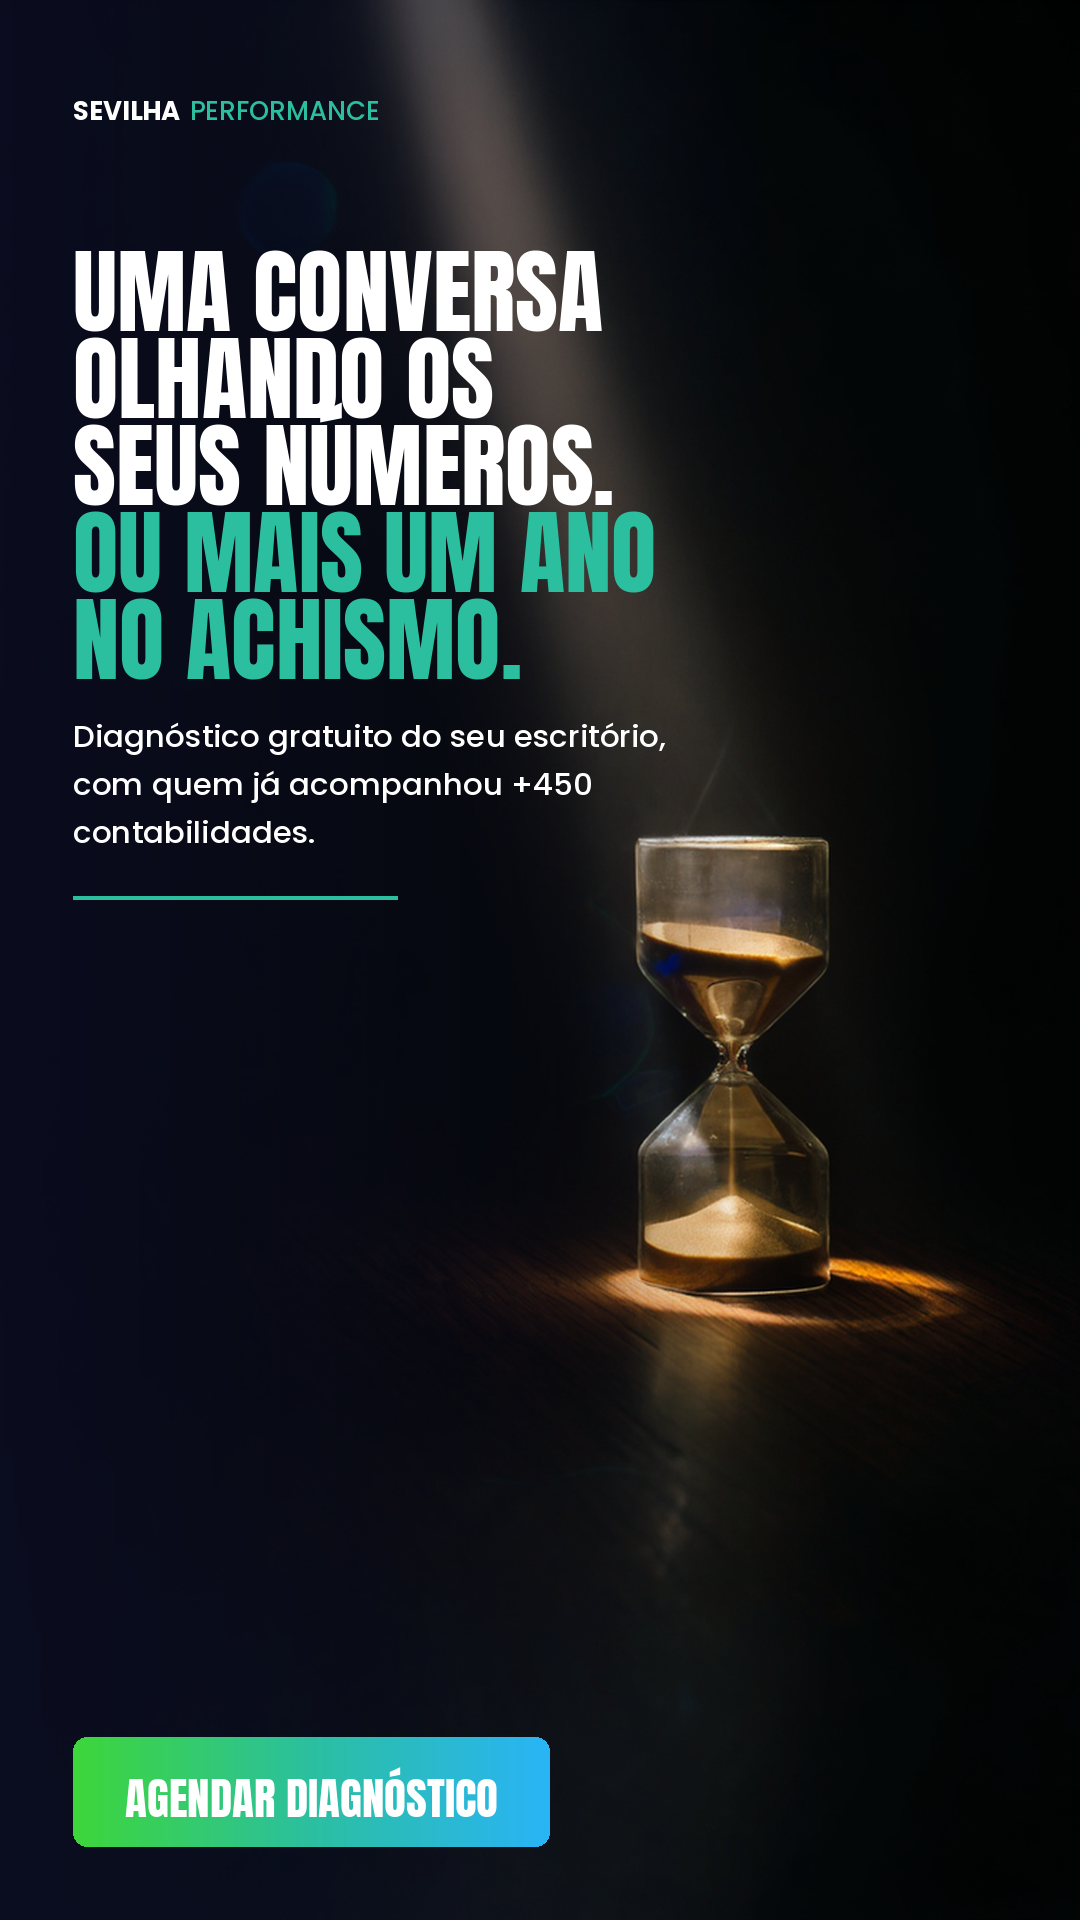
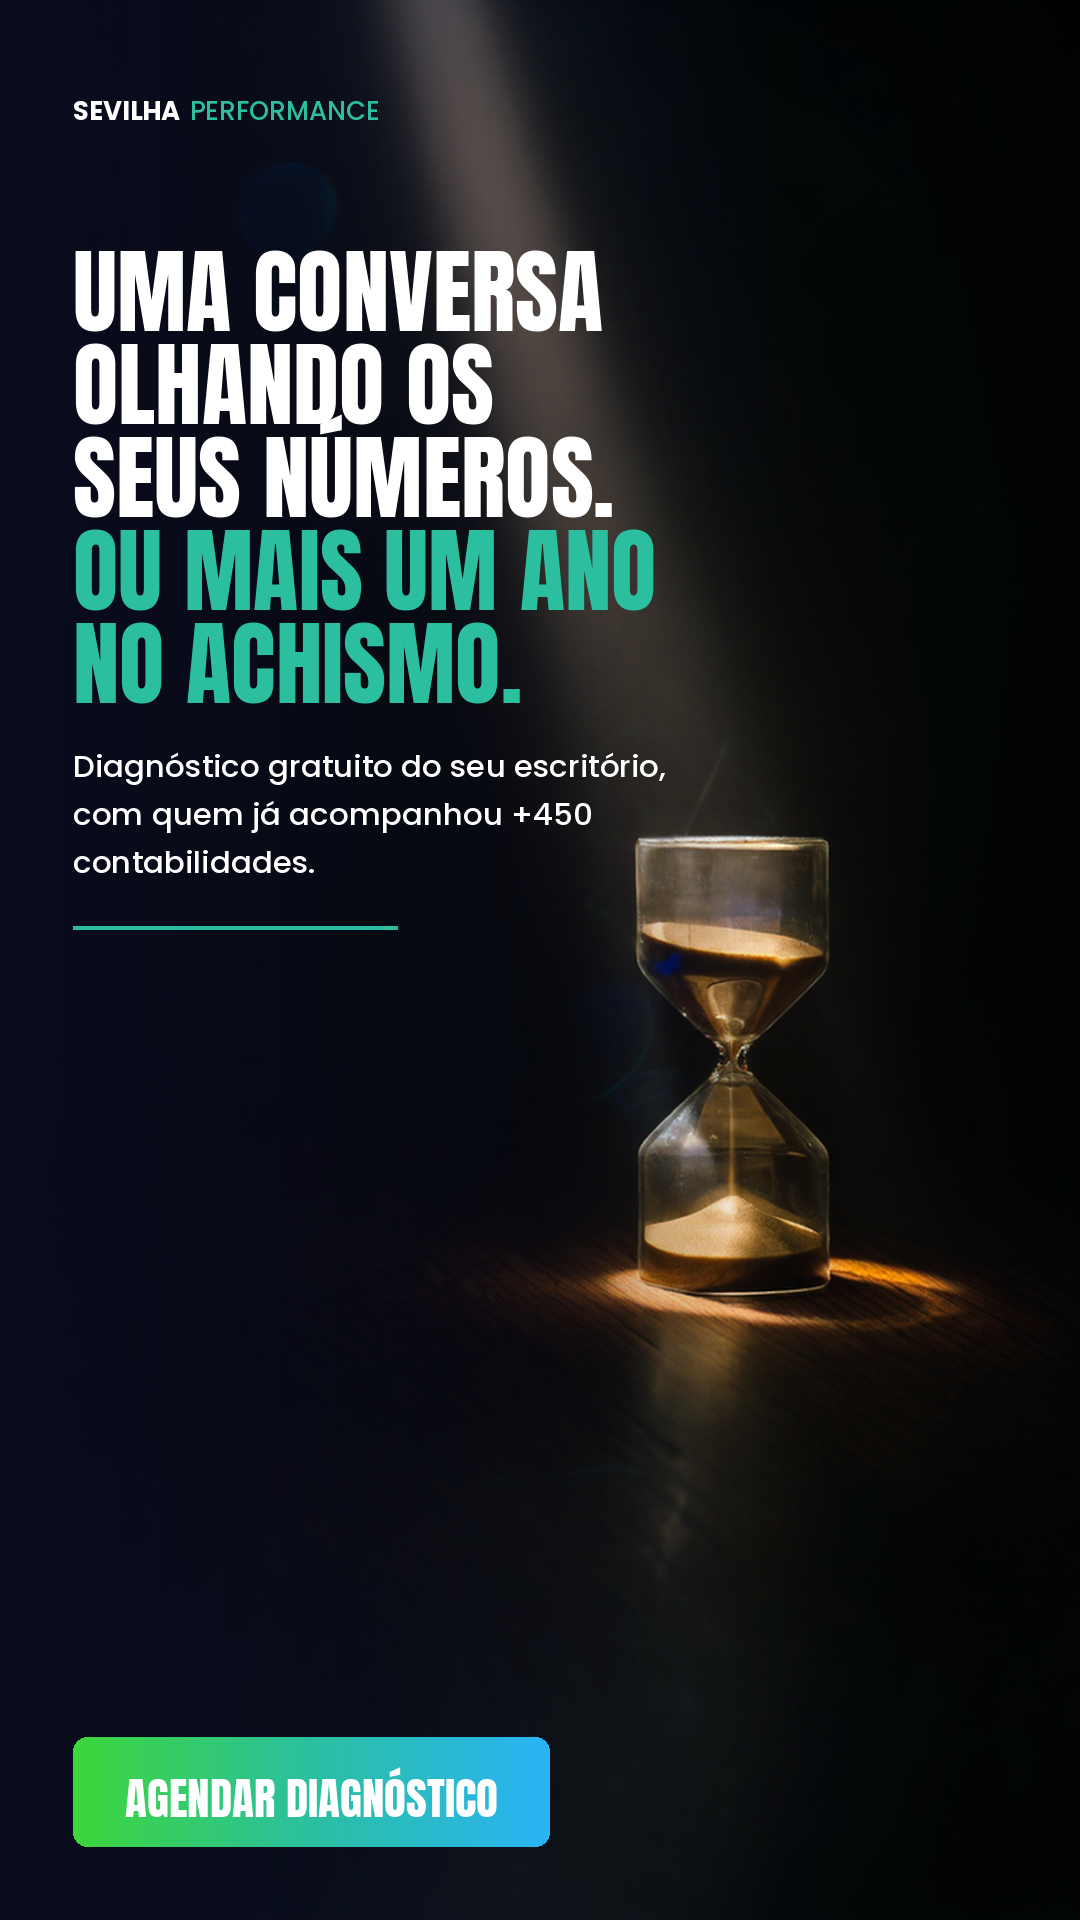
Adicionar três anúncios da Sessão Estratégica
Conceitos 4, 5 e 6 em 4:5, mesmo pipeline: plate limpo pelo Kling e
tipografia composta por cima.

- Conceito 4 (pilha de papel): traduz em objeto o ângulo de menor CPL da
  conta, sem depender de foto de ninguém
- Conceito 5 (cadeira vazia): "o que para quando você sai"
- Conceito 6 (funil): margem que vaza. A primeira versão comparava duas
  pilhas e não lia — o modelo devolvia alturas parecidas; o funil resolve
  porque a desproporção é do próprio objeto

Ajustes no compor.py que os três exigiram:
- entrelinha da headline vira parâmetro, com padrão 1.0. As referências são
  em inglês e usam 0.85; em PT-BR os acentos maiúsculos batiam na linha
  de cima
- suporte a --logo para o PNG oficial da marca, com a assinatura em texto
  como fallback

Claude-Session: https://claude.ai/code/session_01RyMhWZjS6JzrucoHXrbyNV

Changed region(s): [[0.0611, 0.1562, 0.6111, 0.4688], [0.0611, 0.1562, 0.0917, 0.1875]]

diff --git a/criativos/sessao-estrategica/compor.py b/criativos/sessao-estrategica/compor.py
@@ -38,6 +38,24 @@ PECAS = {
         "subhead": "Diagnóstico gratuito do seu escritório, com quem já acompanhou +450 contabilidades.",
         "cta": "AGENDAR DIAGNÓSTICO",
     },
+    "conceito-4": {
+        "headline": ["VOCÊ NÃO TEM", "UM ESCRITÓRIO.", "VOCÊ TEM", "UM PLANTÃO."],
+        "accent_lines": [2, 3],
+        "subhead": "Diagnóstico gratuito do seu escritório, com quem já acompanhou +450 contabilidades.",
+        "cta": "AGENDAR DIAGNÓSTICO",
+    },
+    "conceito-5": {
+        "headline": ["TIRE UMA SEMANA", "DE FÉRIAS.", "VEJA O QUE", "PARA."],
+        "accent_lines": [2, 3],
+        "subhead": "Diagnóstico gratuito do seu escritório, com quem já acompanhou +450 contabilidades.",
+        "cta": "AGENDAR DIAGNÓSTICO",
+    },
+    "conceito-6": {
+        "headline": ["O FATURAMENTO", "SUBIU.", "A MARGEM NÃO", "SAIU DO LUGAR."],
+        "accent_lines": [2, 3],
+        "subhead": "Diagnóstico gratuito do seu escritório, com quem já acompanhou +450 contabilidades.",
+        "cta": "AGENDAR DIAGNÓSTICO",
+    },
 }
 
 
@@ -124,9 +142,18 @@ def botao(texto, fonte, padding=(52, 30), raio=14):
     return grad
 
 
-def marca(draw, x, y, fontes):
-    """Assinatura da marca em texto — o logo.png é navy sobre branco e não
+def marca(canvas, draw, x, y, fontes, logo=None, altura=None):
+    """Aplica o logo. Com --logo aponta para o PNG oficial (marca em gradiente +
+    wordmark branco, que já nasce pronto para fundo escuro). Sem ele, cai numa
+    assinatura em texto — o logo.png do repositório é navy sobre branco e não
     sobrevive ao fundo escuro sem retrabalho de vetor."""
+    if logo:
+        marca_img = Image.open(logo).convert("RGBA")
+        escala = altura / marca_img.height
+        marca_img = marca_img.resize(
+            (round(marca_img.width * escala), altura), Image.LANCZOS)
+        canvas.paste(marca_img, (x, y), marca_img)
+        return
     f = ImageFont.truetype(fontes["poppins_bold"], 26)
     draw.text((x, y), "SEVILHA", font=f, fill=INK)
     largura = f.getbbox("SEVILHA")[2]
@@ -135,7 +162,7 @@ def marca(draw, x, y, fontes):
 
 
 def compor(plate_path, peca, formato, dir_fontes, out, zoom=1.0, anchor_x=0.5,
-           coluna_frac=0.56, headline_y=0.215, cta_y=None):
+           coluna_frac=0.56, headline_y=0.215, cta_y=None, logo=None, leading=1.0):
     size = FORMATOS[formato]
     W, H = size
     margem = round(W * 0.068)
@@ -154,12 +181,15 @@ def compor(plate_path, peca, formato, dir_fontes, out, zoom=1.0, anchor_x=0.5,
     canvas.paste(scrim(size), (0, 0), scrim(size))
     draw = ImageDraw.Draw(canvas)
 
-    marca(draw, margem, round(H * 0.048), fontes)
+    marca(canvas, draw, margem, round(H * 0.048), fontes, logo, round(H * 0.040))
 
     # headline — Anton uppercase, leading apertado, uma frase-chave em ACCENT
     linhas = peca["headline"]
     f_head, corpo = autofit(linhas, fontes["anton"], coluna, round(H * 0.082))
-    avanco = round(corpo * 0.94)
+    # As referências usam leading ~0.85, mas elas são em inglês. Em PT-BR os
+    # acentos maiúsculos (Ê, Ã, Ó) sobem acima da caixa e batem na linha de
+    # cima — 1.0 é o mais apertado que ainda respira.
+    avanco = round(corpo * leading)
     y = round(H * headline_y)
     for i, linha in enumerate(linhas):
         cor = ACCENT if i in peca["accent_lines"] else INK
@@ -202,6 +232,8 @@ if __name__ == "__main__":
     p.add_argument("--coluna", type=float, default=0.56, help="largura da coluna de texto (fração)")
     p.add_argument("--headline-y", type=float, default=0.215, help="topo da headline (fração da altura)")
     p.add_argument("--cta-y", type=float, default=None, help="topo do CTA; padrão ancora na base")
+    p.add_argument("--logo", default=None, help="PNG do logo oficial; sem ele usa assinatura em texto")
+    p.add_argument("--leading", type=float, default=1.0, help="entrelinha da headline (múltiplo do corpo)")
     a = p.parse_args()
     compor(a.plate, PECAS[a.peca], a.formato, a.fontes, a.out, a.zoom, a.anchor_x,
-           a.coluna, a.headline_y, a.cta_y)
+           a.coluna, a.headline_y, a.cta_y, a.logo, a.leading)

diff --git a/criativos/sessao-estrategica/PROMPT-KLING.md b/criativos/sessao-estrategica/PROMPT-KLING.md
@@ -7,7 +7,7 @@ referências enviadas, com a paleta da marca.
 - **Oferta:** sessão de diagnóstico **gratuita**
 - **Destino:** https://form.respondi.app/gvz4UKQr
 - **Formato:** 4:5 (feed) + 9:16 (Reels/Stories)
-- **Peças prontas:** `out/conceito-2-4x5.png` · `out/conceito-2-9x16.png`
+- **Peças prontas:** conceitos 2, 4, 5 e 6 em `out/` (4:5; o conceito 2 também em 9:16)
 
 ## Lacunas a preencher antes de gerar
 
@@ -213,6 +213,74 @@ change, no morphing, no added text.
 
 ---
 
+## Conceito 4 — Pilha de papel · "plantão"
+
+O ângulo de menor CPL da conta (`005 – Está consumido pela operação`), traduzido em
+objeto. Sem pessoa, então não depende de foto de ninguém.
+
+**Headline:**
+```
+VOCÊ NÃO TEM
+UM ESCRITÓRIO.
+VOCÊ TEM
+UM PLANTÃO.       ← estas duas linhas em ACCENT
+```
+
+Plate em `prompts/plates/conceito-4-pilha.txt` · peça em `out/conceito-4-4x5.png`
+
+```bash
+python3 compor.py --plate plates/conceito-4-pilha-3x4.png --peca conceito-4 \
+  --formato 4:5 --coluna 0.58 --out out/conceito-4-4x5.png
+```
+
+---
+
+## Conceito 5 — Cadeira vazia · "o que para sem você"
+
+Ancorado em `Quando você tira um dia de folga, algo quebra ou para` (landing page).
+
+**Headline:**
+```
+TIRE UMA SEMANA
+DE FÉRIAS.
+VEJA O QUE
+PARA.             ← estas duas linhas em ACCENT
+```
+
+Plate em `prompts/plates/conceito-5-cadeira.txt` · peça em `out/conceito-5-4x5.png`
+
+```bash
+python3 compor.py --plate plates/conceito-5-cadeira-3x4.png --peca conceito-5 \
+  --formato 4:5 --zoom 1.1 --anchor-x 0.0 --coluna 0.54 --out out/conceito-5-4x5.png
+```
+
+---
+
+## Conceito 6 — Funil · margem que vaza
+
+Ancorado em `O faturamento cresce, mas a margem não acompanha` (landing page).
+
+A primeira tentativa foi "pilha alta de notas ao lado de pilha baixa de moedas" — não
+funcionou: o modelo devolveu pilhas de altura parecida e o contraste não lia. O funil
+transbordando que pinga uma moeda só resolve, porque a desproporção é do próprio objeto.
+
+**Headline:**
+```
+O FATURAMENTO
+SUBIU.
+A MARGEM NÃO
+SAIU DO LUGAR.    ← estas duas linhas em ACCENT
+```
+
+Plate em `prompts/plates/conceito-6-margem.txt` · peça em `out/conceito-6-4x5.png`
+
+```bash
+python3 compor.py --plate plates/conceito-6-margem-3x4.png --peca conceito-6 \
+  --formato 4:5 --zoom 1.15 --anchor-x 0.0 --coluna 0.58 --out out/conceito-6-4x5.png
+```
+
+---
+
 ## Prompt negativo (todos os conceitos)
 
 ```
@@ -285,6 +353,21 @@ Limites: texto principal 125 caracteres visíveis · título 40 · descrição 3
 - Título: `+450 contabilidades atendidas` (29)
 - Descrição: `Diagnóstico gratuito` (20)
 
+**Conceito 4**
+- Principal: `Você chega cedo, sai tarde e ainda leva trabalho pra casa. Isso não é dedicação, é falta de gestão.` (99)
+- Título: `Diagnóstico gratuito` (20)
+- Descrição: `Donos de contabilidade` (22)
+
+**Conceito 5**
+- Principal: `Tire um dia de folga e algo quebra. Um escritório que depende de você não é um ativo, é um emprego.` (99)
+- Título: `O que para sem você?` (20)
+- Descrição: `Agende seu diagnóstico` (22)
+
+**Conceito 6**
+- Principal: `Faturamento subindo com margem parada é vazamento, não preço. Descubra onde está o seu.` (87)
+- Título: `Margem parada?` (14)
+- Descrição: `Diagnóstico gratuito` (20)
+
 CTA do Meta: `Cadastre-se` ou `Saiba mais` · destino `https://form.respondi.app/gvz4UKQr`
 
 ---
@@ -295,6 +378,7 @@ CTA do Meta: `Cadastre-se` ou `Saiba mais` · destino `https://form.respondi.app
 - [ ] Nenhuma mão fotorrealista entrando em quadro.
 - [ ] Plate saiu **sem nenhum texto** antes do overlay.
 - [ ] C1: o rosto do Vicente continua o rosto do Vicente nos 5 segundos inteiros.
+- [ ] Nenhum texto embaralhado sobrou no plate (o modelo insiste em escrever em papel e tela — foi o que reprovou a primeira versão do conceito 6).
 - [ ] Headline legível em velocidade normal, som desligado, na tela do celular.
 - [ ] Logo Sevilha visível no primeiro frame (autoplay sem som).
 - [ ] Rótulo de conteúdo gerado por IA marcado na subida (exigência de Meta e TikTok).
